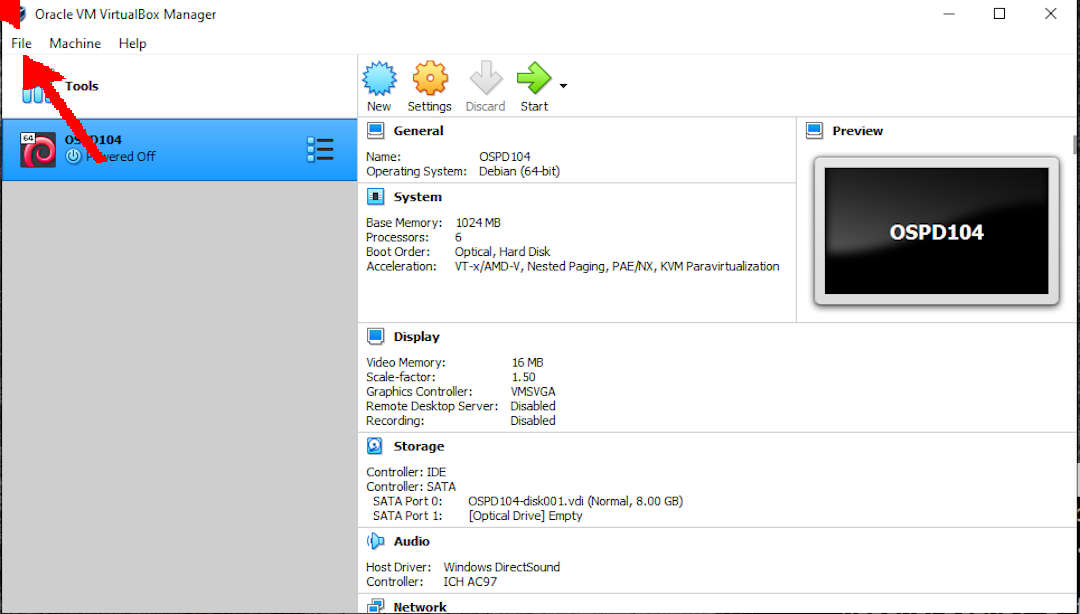
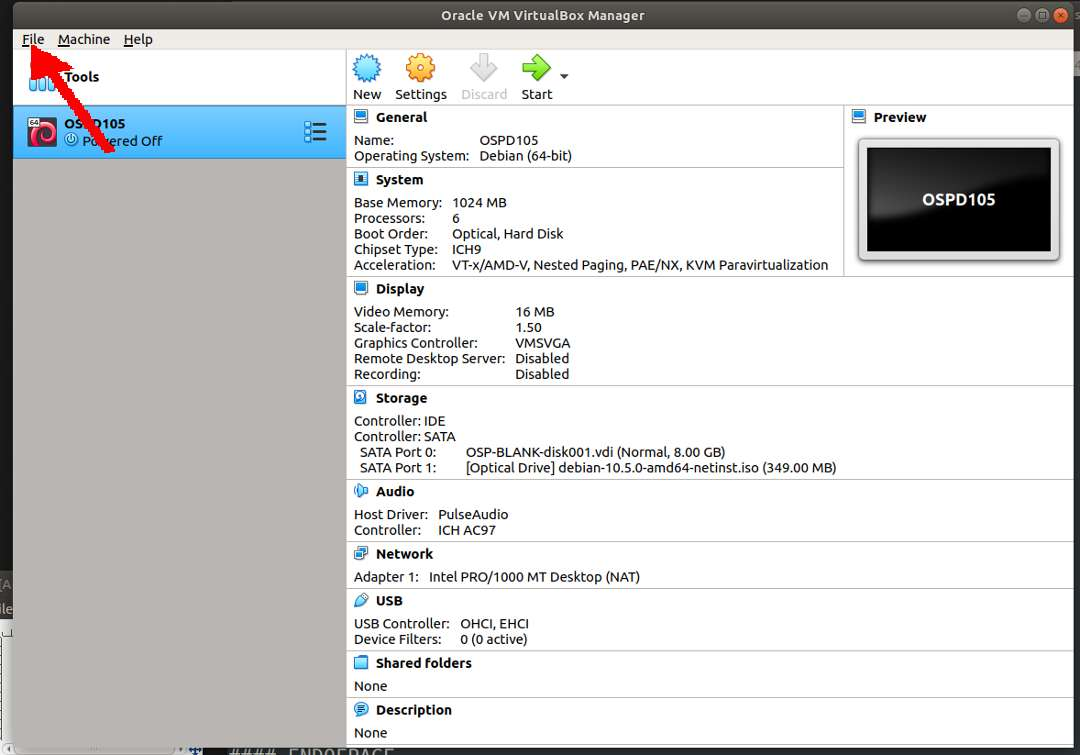
pamulang1: UF-osp4diss

diff --git a/DebianGuestExportOva.md b/DebianGuestExportOva.md
@@ -12,6 +12,8 @@
 
 # Exporting a Debian Guest In OVA Format
 
+## <span style="color:red; font-weight:bold; font-size:larger;">Eg. OSPD105</span>
+
 <img src="pictures/F-OSP-00.jpg"  width="960">
 
 <img src="pictures/F-OSP-01.jpg"  width="960">
